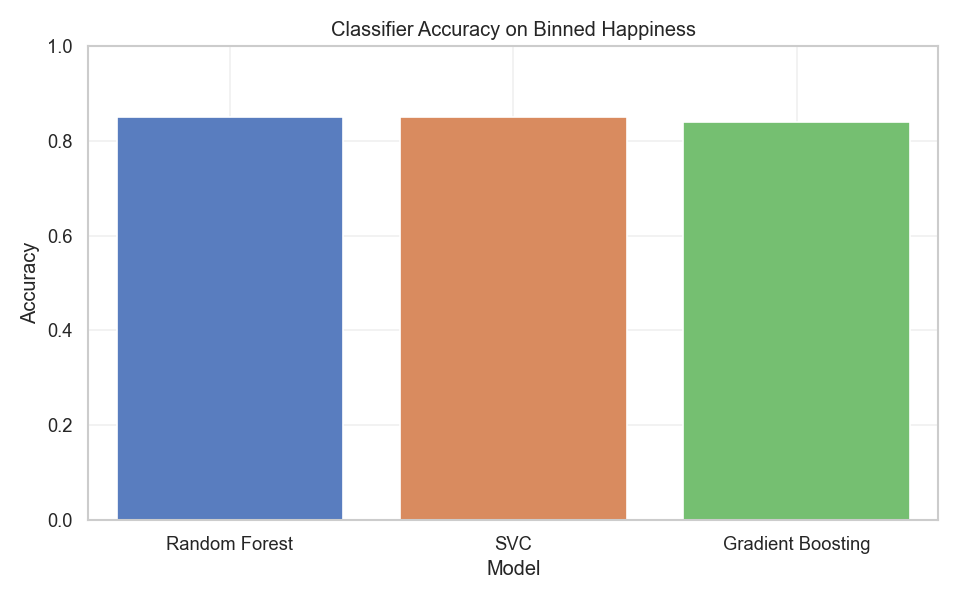
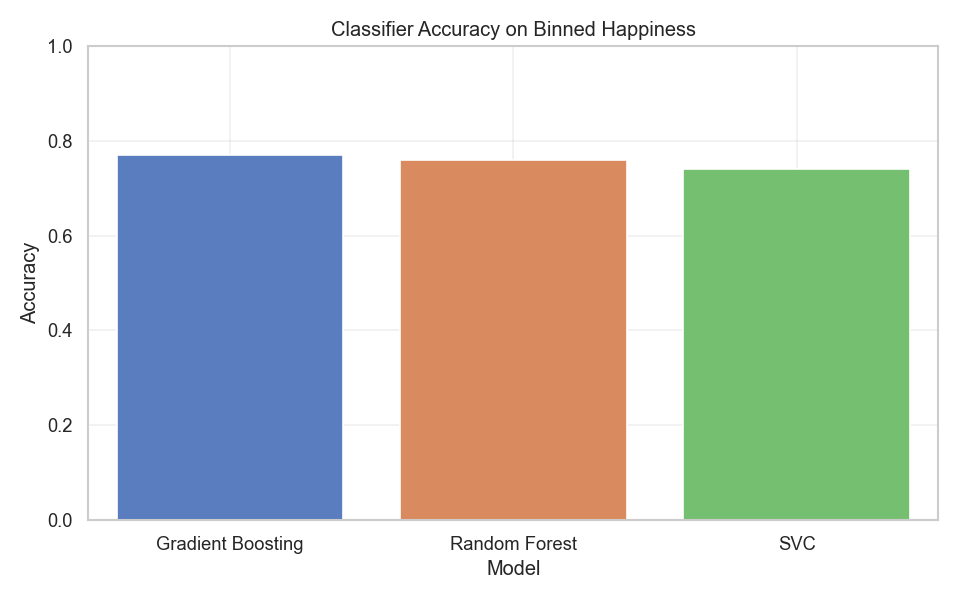
Changed to quantile based bins

diff --git a/happiness_prediction.py b/happiness_prediction.py
@@ -289,12 +289,13 @@ print("\n" + "="*60)
 print("HAPPINESS CLASSIFICATION: Low / Medium / High")
 print("="*60)
 
-# Bin happiness into 3 categories: Low (1-4), Medium (5-7), High (8-10)
-df_enhanced['Happiness_Bin'] = pd.cut(
+# Bin happiness into 3 categories (Quantile-based bins)
+df_enhanced['Happiness_Bin'] = pd.qcut(
     df_enhanced['Happiness_Index(1-10)'],
-    bins=[0, 4, 7, 10],
+    q=3,
     labels=['Low', 'Medium', 'High']
 )
+
 
 y_class = df_enhanced['Happiness_Bin']
 

diff --git a/main.py b/main.py
@@ -39,11 +39,11 @@ print(df.describe())
 # ============================================================
 
 def categorize_happiness(h):
-    if 4 <= h < 8:
+    if 4 <= h < 6:
         return "Low"
-    elif 8 <= h < 10:
+    elif 6 <= h < 8:
         return "Medium"
-    elif 10 <= h <= 10:
+    elif 8 <= h <= 10:
         return "High"
     else:
         return None
